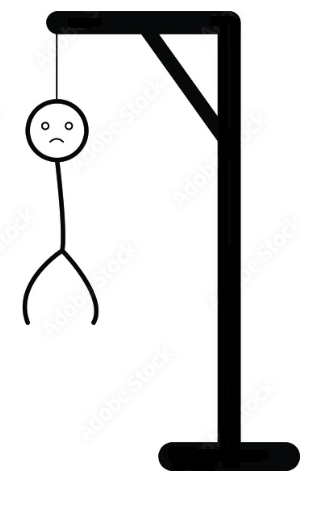
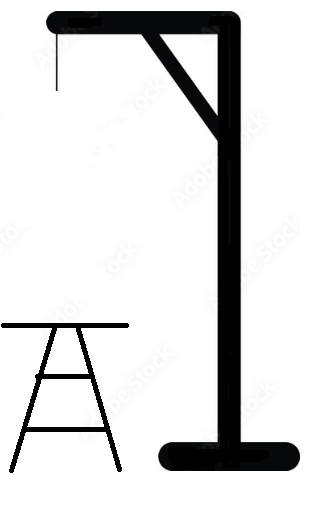
added remaining lives logic, changes some styling

Changed region(s): [[0.0, 0.1775, 0.4, 0.9467], [0.2, 0.2367, 0.2286, 0.2663]]

diff --git a/index.html b/index.html
@@ -11,43 +11,50 @@
 <body>
     <div><h1>HANGMAN</h1></div>
     <div class="container">
-        <h2>press on the letters below to guess the word</h2>
-        <div class="ul">
-            <ul class="letters">
-                <li class="letter" id="A">A</li>
-                <li class="letter" id="B">B</li>
-                <li class="letter" id="C">C</li>
-                <li class="letter" id="C">D</li>
-                <li class="letter" id="E">E</li>
-                <li class="letter" id="F">F</li>
-                <li class="letter" id="G">G</li>
-                <li class="letter" id="H">H</li>
-                <li class="letter" id="I">I</li>
-                <li class="letter" id="J">J</li>
-                <li class="letter" id="K">K</li>
-                <li class="letter" id="L">L</li>
-                <li class="letter" id="M">M</li>
-            </ul>
-            <ul class="letters">
-                <li class="letter" id="N">N</li>
-                <li class="letter" id="O">O</li>
-                <li class="letter" id="P">P</li>
-                <li class="letter" id="Q">Q</li>
-                <li class="letter" id="R">R</li>
-                <li class="letter" id="S">S</li>
-                <li class="letter" id="T">T</li>
-                <li class="letter" id="U">U</li>
-                <li class="letter" id="V">V</li>
-                <li class="letter" id="W">W</li>
-                <li class="letter" id="X">X</li>
-                <li class="letter" id="Y">Y</li>
-                <li class="letter" id="Z">Z</li>
-            </ul>
+        <div class="left">
+            <h2>press on the letters below to guess the word</h2>
+            <div class="ul">
+                <ul class="letters">
+                    <li class="letter" id="A">A</li>
+                    <li class="letter" id="B">B</li>
+                    <li class="letter" id="C">C</li>
+                    <li class="letter" id="C">D</li>
+                    <li class="letter" id="E">E</li>
+                    <li class="letter" id="F">F</li>
+                    <li class="letter" id="G">G</li>
+                    <li class="letter" id="H">H</li>
+                    <li class="letter" id="I">I</li>
+                    <li class="letter" id="J">J</li>
+                    <li class="letter" id="K">K</li>
+                    <li class="letter" id="L">L</li>
+                    <li class="letter" id="M">M</li>
+                </ul>
+                <ul class="letters">
+                    <li class="letter" id="N">N</li>
+                    <li class="letter" id="O">O</li>
+                    <li class="letter" id="P">P</li>
+                    <li class="letter" id="Q">Q</li>
+                    <li class="letter" id="R">R</li>
+                    <li class="letter" id="S">S</li>
+                    <li class="letter" id="T">T</li>
+                    <li class="letter" id="U">U</li>
+                    <li class="letter" id="V">V</li>
+                    <li class="letter" id="W">W</li>
+                    <li class="letter" id="X">X</li>
+                    <li class="letter" id="Y">Y</li>
+                    <li class="letter" id="Z">Z</li>
+                </ul>
+            </div>
+            <div id="secret-word"><h2>The Secret Word Is:</h2></div>
+            <div id="word"></div>
+            <div id="hint">Hint Goes Here</div>
+            <div id="lives">You have 7 lives left</div>
+            <div id="your-status"></div>
         </div>
-        <div id="secret-word"><h2>The Secret Word Is:</h2></div>
-        <div id="word"></div>
-        <div id="hint"><h2>Hint Goes Here</h2></div>
-        <div id="lives"><h2>You have <span id="lives"></span> lives</h2></div>
+        <div class="right">
+            <img id="img" src="images/hangman-0.png" alt="">
+        </div><br>
+
     </div>
 
 </body>

diff --git a/code.js b/code.js
@@ -18,6 +18,13 @@ window.onload=function(){
     let under_scores_array = Array.from(under_scores)
     const dashed_word = document.getElementById("word");
     dashed_word.innerHTML = under_scores
+    document.getElementById("img").src="images/hangman-0.png"
+    your_status=document.getElementById("your-status");
+    remainig_lives=document.getElementById("lives")
+
+
+
+
     // console.log(dashed_word.innerHTML)
     let wrong_attempts = 0;
 
@@ -25,26 +32,38 @@ window.onload=function(){
     let status= false
 document.addEventListener("click",(e) => {
     status= false
-    if (e.target.className==="letter"){
-        e.target.classList.add("clicked")
-    }
-    let clickedLetter = e.target.innerHTML.toLowerCase()
-    random_word_letters.forEach((word_letter, index)=>{
-        if(clickedLetter == word_letter){
-            // console.log(clickedLetter,random_word)
-            status= true;
-            under_scores_array[index]=clickedLetter;
-            dashed_word.innerHTML = under_scores_array.join('');
-
+    if(wrong_attempts<8){
+        if (e.target.className==="letter"){
+            e.target.classList.add("clicked")
         }
-    })
+        let clickedLetter = e.target.innerHTML.toLowerCase()
+        random_word_letters.forEach((word_letter, index)=>{
+            if(clickedLetter == word_letter){
+                // console.log(clickedLetter,random_word)
+                status= true;
+                under_scores_array[index]=clickedLetter;
+                dashed_word.innerHTML = under_scores_array.join('');
+    
+            }
+        })
+    }
+
     if(!status  && e.target.classList.contains("clicked")){
         wrong_attempts++;
-        console.log(wrong_attempts)
-        if (under_scores_array.indexOf("_") == -1){
-            console.log("you win!!")
-
+        if(wrong_attempts<8){
+            img_src=`images/hangman-${wrong_attempts}.png`
+            document.getElementById("img").src=img_src
+        }
+        console.log(wrong_attempts, under_scores_array)
+        if (wrong_attempts==7){
+            your_status.innerHTML="you lose!!"
         }
     }
+    if (under_scores_array.indexOf("_") == -1){
+        console.log("you win!!");
+        your_status.innerHTML="you win!!"
+
+    }
+    remainig_lives.innerHTML=`You have ${7-wrong_attempts} lives left`;
 })
 }

diff --git a/style.css b/style.css
@@ -38,12 +38,27 @@ h3{
 }
 .container{
     display: flex;
+    flex-direction: row;
+    gap: 50px;
+}
+.container .left{
+    display: flex;
     flex-direction: column;
     justify-items: center;
     align-items: center;
 }
 #word{
-    font-size: 40px;
+    font-size: 60px;
     letter-spacing: 3px;
     font-weight: 500;
+    padding-bottom: 30px;
+}
+#your-status{
+    font-size: 60px;
+    color: red;
+}
+#lives, #hint{
+    font-size: 30px;
+    font-weight:bold;
+    padding-bottom: 30px;
 }
